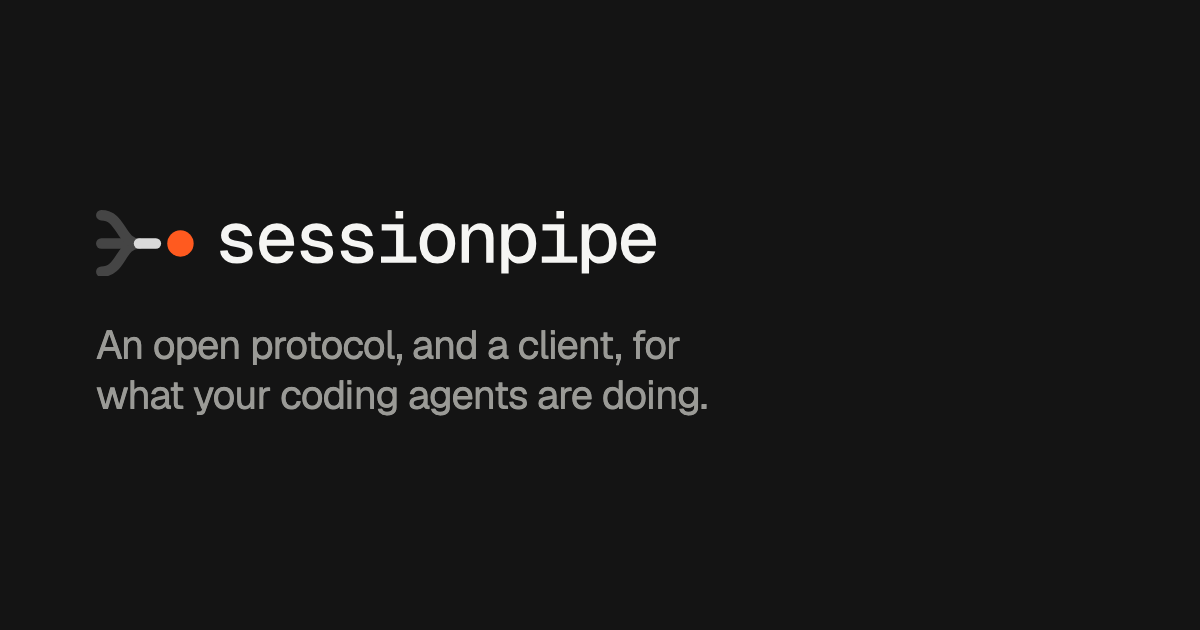
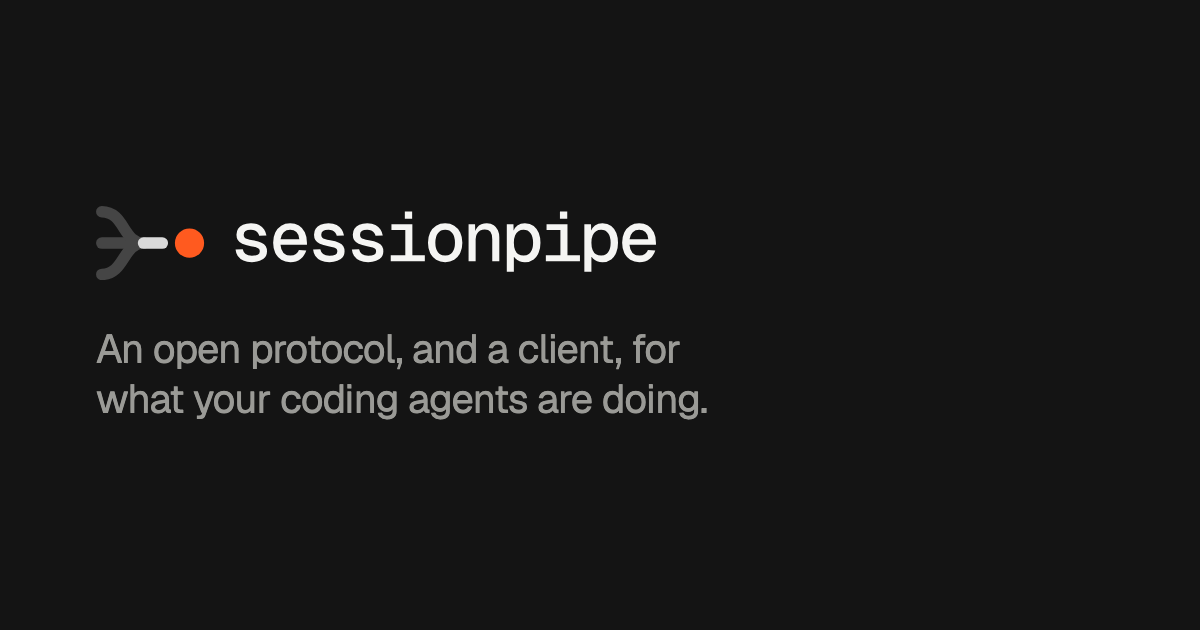
Site: the lockup as the design draws it
The header lockups, the social card's lockup and og.png are the brand kit's corrected
files: the name at 46/88 of the mark's box, placed as page3 places it. The header lockup
is 131 × 18.

Changed region(s): [[0.0617, 0.5127, 0.5858, 0.6635], [0.0617, 0.3317, 0.555, 0.4524], [0.0617, 0.4222, 0.0925, 0.4524]]

diff --git a/website/src/site.css b/website/src/site.css
@@ -303,7 +303,7 @@ time,
 }
 .brand img {
   display: block;
-  width: 146px;
+  width: 131px;
   height: 18px;
 }
 .top nav {
